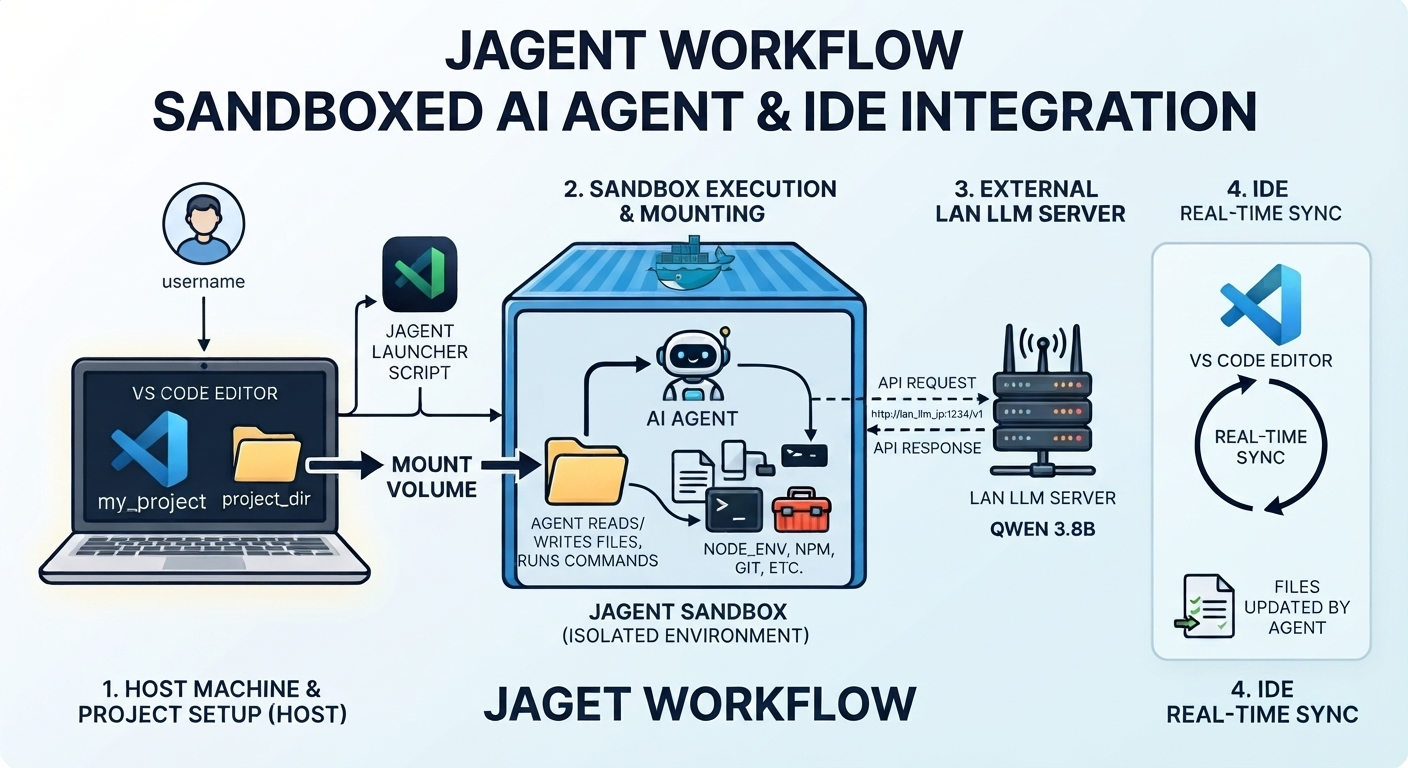
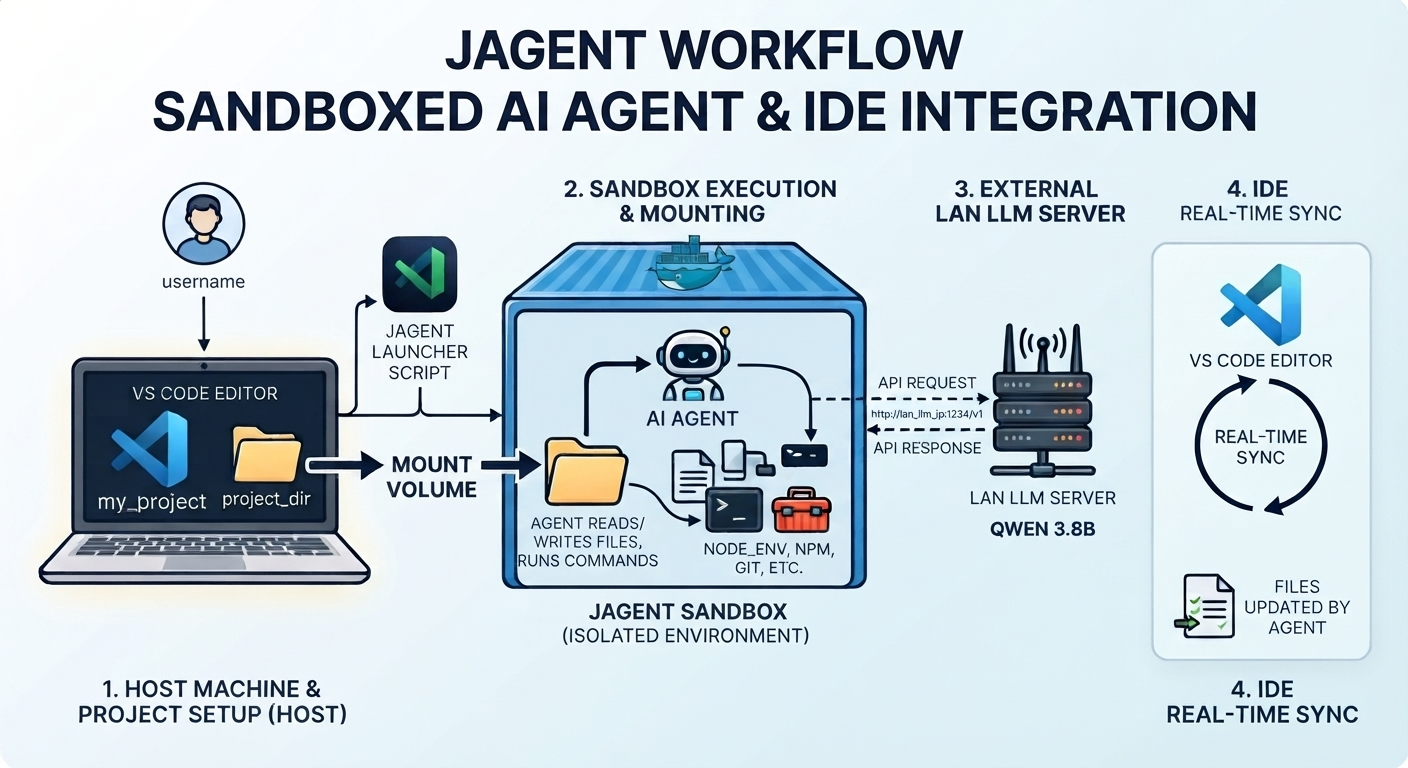
Refactor README.md for clarity and update big_pic.jpeg for improved quality

Changed region(s): [[0.3438, 0.875, 0.6562, 0.9375]]

diff --git a/README.md b/README.md
@@ -6,7 +6,9 @@ An experimental workflow for constraining an AI coding agent within a securely c
 
 ## Disclaimer
 
-Jagent uses [Colima](https://github.com/abiosoft/colima) instead of Docker Desktop because its networking setup allows the LLM to connect to a separate host on the local network. This is a local-development choice for connectivity and workflow simplicity, not a claim that Colima provides stronger isolation than Docker Desktop. At the moment, the project is designed and tested only with the Goose CLI; other agent CLIs are not currently supported.
+Jagent uses [Colima](https://github.com/abiosoft/colima) instead of Docker Desktop because its networking setup allows the container to to connect to an LLM machine on a separate host on the local network.
+
+At the moment, the project is designed and tested only with the Goose CLI; other agent CLIs are not currently supported.
 
 
 See [Current Scope](doc/current-scope.md) for the implementation boundary and open questions.
